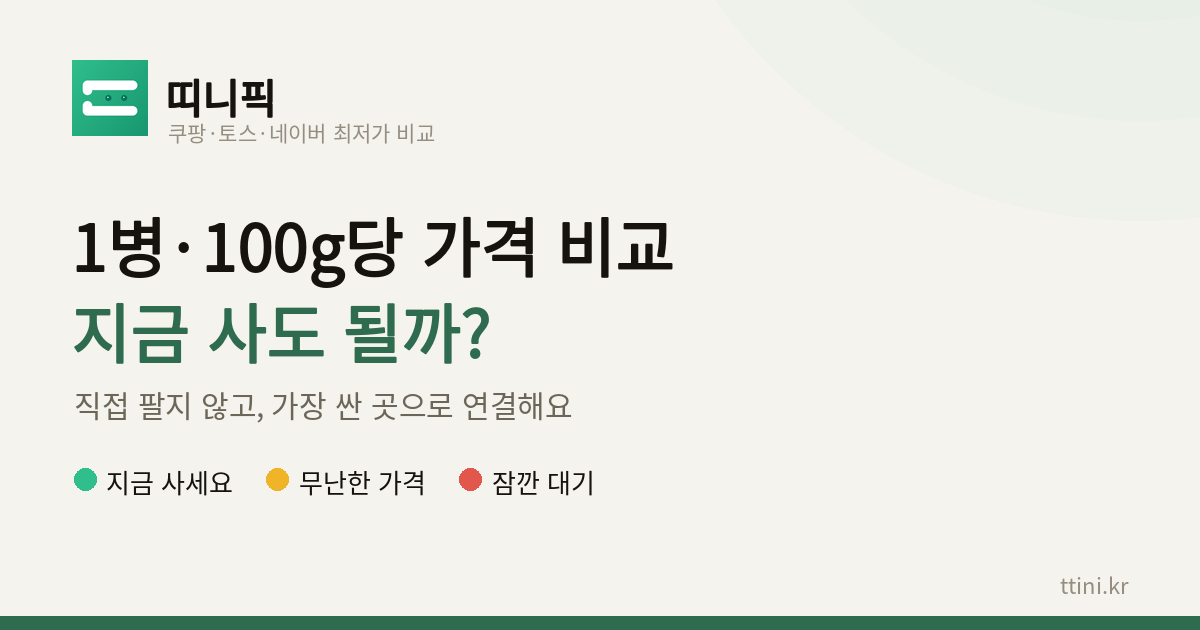
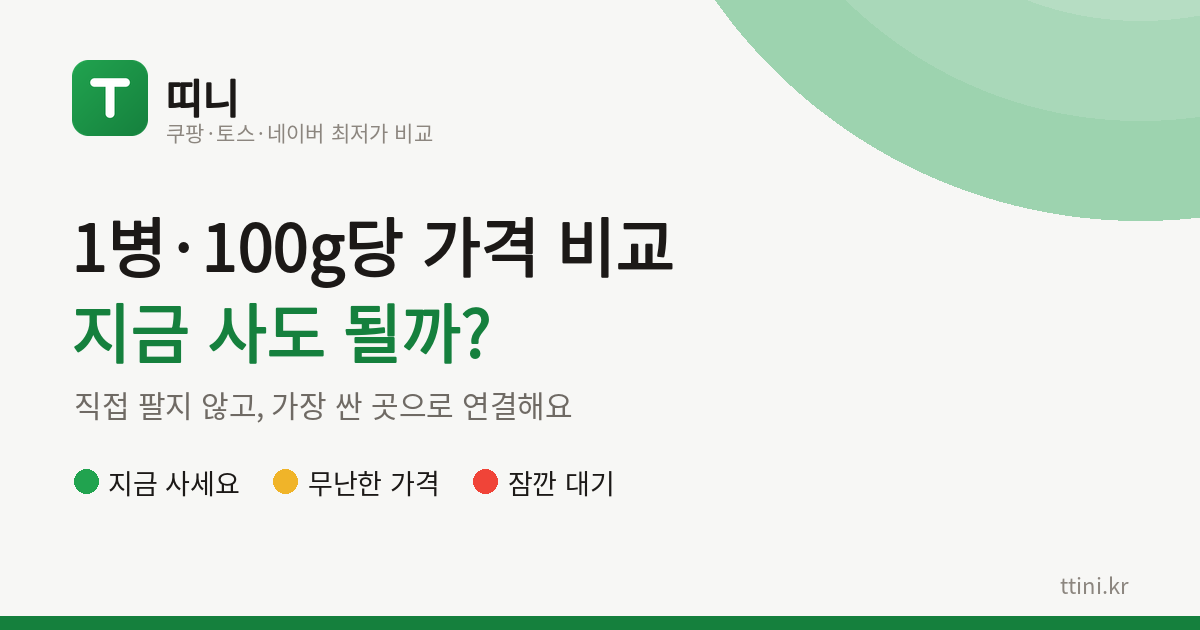
r51 후속: OG 공유 이미지를 웜 화이트·프레시 그린 톤으로 교체(띠니 이름·그린 T 아이콘·신호등 3색), 생성 스크립트도 맞춤

diff --git a/scripts/make_og_image.py b/scripts/make_og_image.py
@@ -44,9 +44,6 @@ for rad, strength in ((520, 0.42), (420, 0.36), (320, 0.30), (220, 0.24), (120, 
     col = tuple(int(BG[c] + (GREEN_LT[c] - BG[c]) * strength) for c in range(3))
     d.ellipse((W - 60 - rad, -300 - rad, W - 60 + rad, -300 + rad), fill=col)
 
-# 오른쪽 아래 코랄 점 — 입맛 도는 포인트
-d.ellipse((W - 210, H - 238, W - 150, H - 178), fill=(253, 226, 221))
-
 # 하단 브랜드 띠
 d.rectangle((0, H - 14, W, H), fill=GREEN)
 
